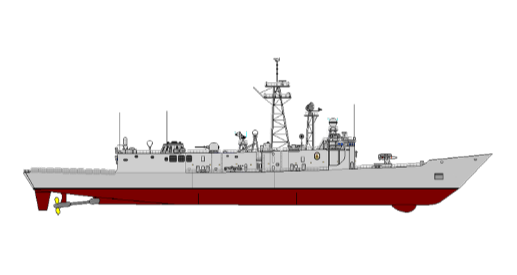
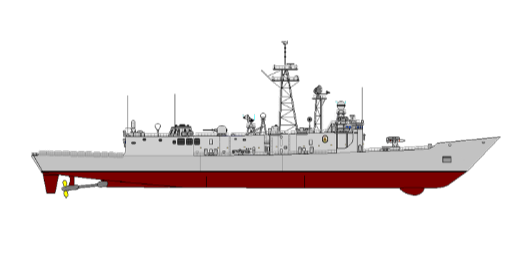
Iowa Class & Other Fixes
- Finished Iowa Class battleship.
- Revamped damage control images & panels for all playable ships
- Updated descriptions
- Updated Readme

Changed region(s): [[0.0309, 0.1455, 0.9903, 0.7855]]

diff --git a/Readme.md b/Readme.md
@@ -1,4 +1,10 @@
 ---
+### Recent Major Changes
+* 12/23/2017 - We're now up to 4 total playable surface ships: Perry Class Frigate, Iowa Class Battleship, Poti Class Corvette, and Kirov Class Battlecruiser. We've added Single Missions 37 and 38, convoy strike missions, for the new ships. Be aware that the stats on these ships are beefed up for gameplay purposes, since surface warfare wasn't intended in this game - they're not real world stats and never will be.
+
+* 12/21/2017 - Typhoon periscope depth has finally been fixed! Due to a small bug, we have to set the Typhoon at 60ft for periscope depth right now, which can cause the sail to become exposed during high sea states, but hopefully that small bug will be fixed soon and we can change it to 65ft, which is the ideal depth. All other bugs with the Typhoon should now be resolved.
+
+-----
 ### Info For Players
 * To download the latest version of the mod, simply click the green "Clone or Download" button above and choose "Download ZIP". This will download the latest override file to your PC, then you just install it like you normally would.
 
@@ -7,13 +13,6 @@
 * We will attempt to list all recent major changes to the mod on this page right below this section. You won't see minor bug fixes listed, but when we change something major, we'll try to post it below.
 
 * If you have a bug report, the best place to let us know about it is the Discord channel (linked at the top of this page), however you can also post on the forums on Steam (http://steamcommunity.com/app/541210/discussions/3/1353742967803190823) or Subsim (http://www.subsim.com/radioroom/showthread.php?t=231690) and we'll see it there as well.
-
-### Recent Major Changes
-* 12/23/2017 - Added Single Missions 37 and 38, convoy strike missions for the new playable surface ships.
-
-* 12/22/2017 - New Playable Surface Ships finalized - Poti and Kirov for the Russians, and the Perry class frigate for the US. These are playable in single missions 36, 37, and 38 only at this time. Be aware that the stats on these ships are beefed up for gameplay purposes, since surface warfare wasn't intended in this game - they're not real world stats and never will be.
-
-* 12/21/2017 - Typhoon periscope depth has finally been fixed! Due to a small bug, we have to set the Typhoon at 60ft for periscope depth right now, which can cause the sail to become exposed during high sea states, but hopefully that small bug will be fixed soon and we can change it to 65ft, which is the ideal depth. All other bugs with the Typhoon should now be resolved.
 
 -----
 ## Developer Announcements
